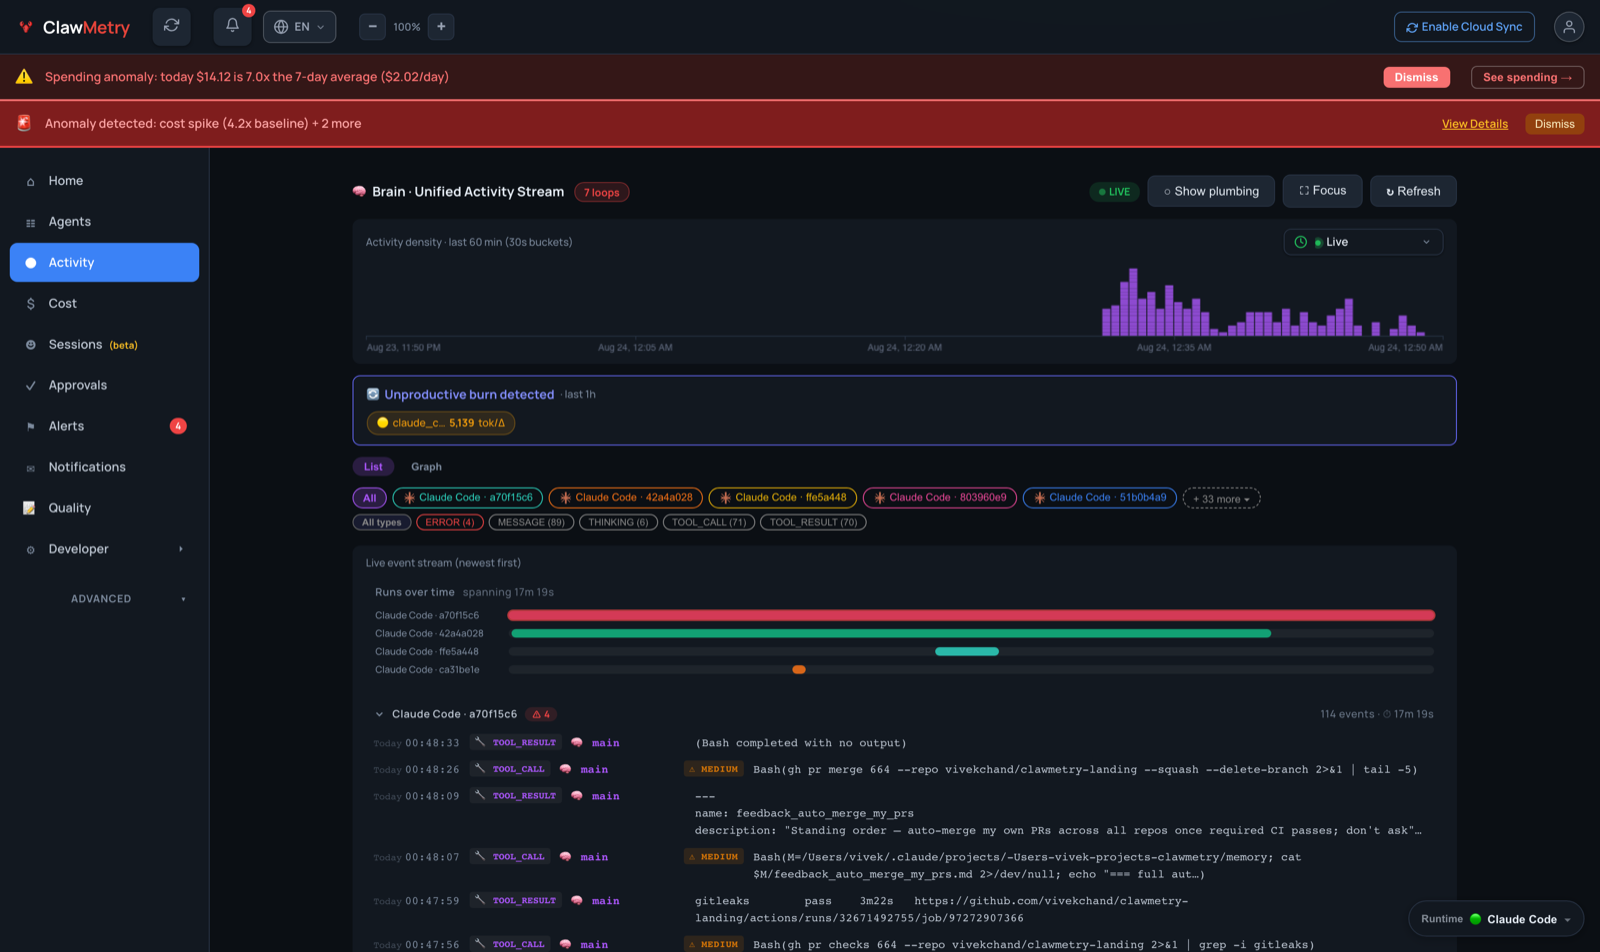
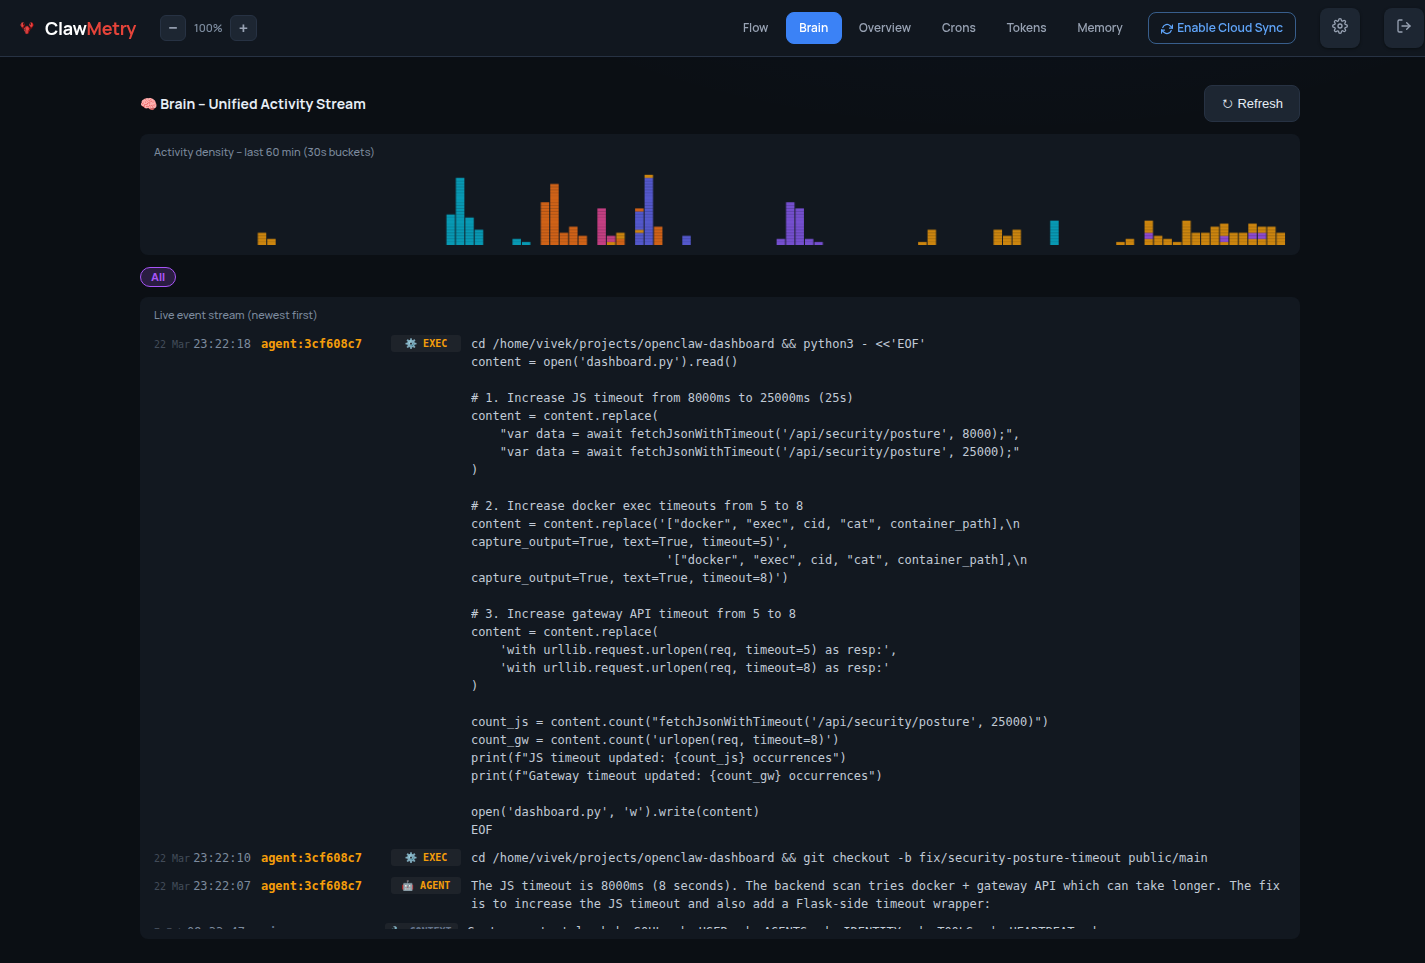
Pull the Activity shot: its live stream rendered local paths and private file contents
The capture was taken against a real machine, and the unified activity stream
renders tool calls verbatim. This one included /Users/... paths and the body
of a private instructions file that happened to be read during the window.

Reverting the image to the previous build and dropping the block until the
shot can be retaken against a runtime whose transcript content is safe to
publish. Same rule that removed subagent.png from the landing page.

diff --git a/README.md b/README.md
@@ -111,12 +111,6 @@ thinking), and $35,572/mo already saved by cache reuse.
 
 ![Cost: efficiency grade B with itemised savings ideas](https://raw.githubusercontent.com/vivekchand/clawmetry/main/screenshots/cost.png)
 
-**It shows every step, across every runtime.**
-Messages, reasoning, tool calls and their results, streaming live, filterable
-by runtime and by event type.
-
-![Activity: live unified event stream across runtimes](https://raw.githubusercontent.com/vivekchand/clawmetry/main/screenshots/brain.png)
-
 **Detection runs without you configuring anything.**
 The built-in detectors are on from install: agent went quiet, telemetry feed
 stopped, cost spike, stalled session, repeated tool failure. Your own rules
